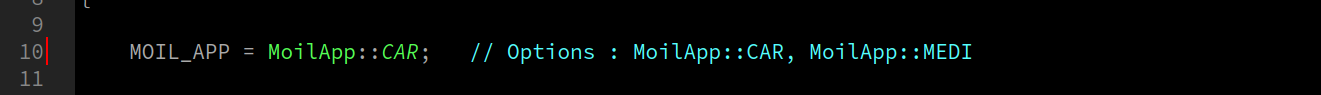
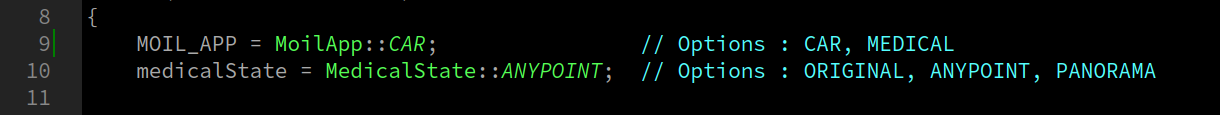
update

Changed region(s): [[0.0, 0.0, 0.9656, 1.0]]

diff --git a/README.md b/README.md
@@ -54,7 +54,7 @@ If you already have Opencv and Qt creator installed, the followings can be skipp
 	Click on "Camera" button to start receiving the video stream.
 
 
-## 4. Applications switch(CAR/ MEDI)
+## 4. Applications switch(CAR/ MEDICAL)
 	
 	The default design of Mainmoil_6view is a split-screen view for CAR usage. To switch it to a different
 	style view for MEDICAL usage, please modify MOIL_APP in mainwindow.cpp as the following, 
